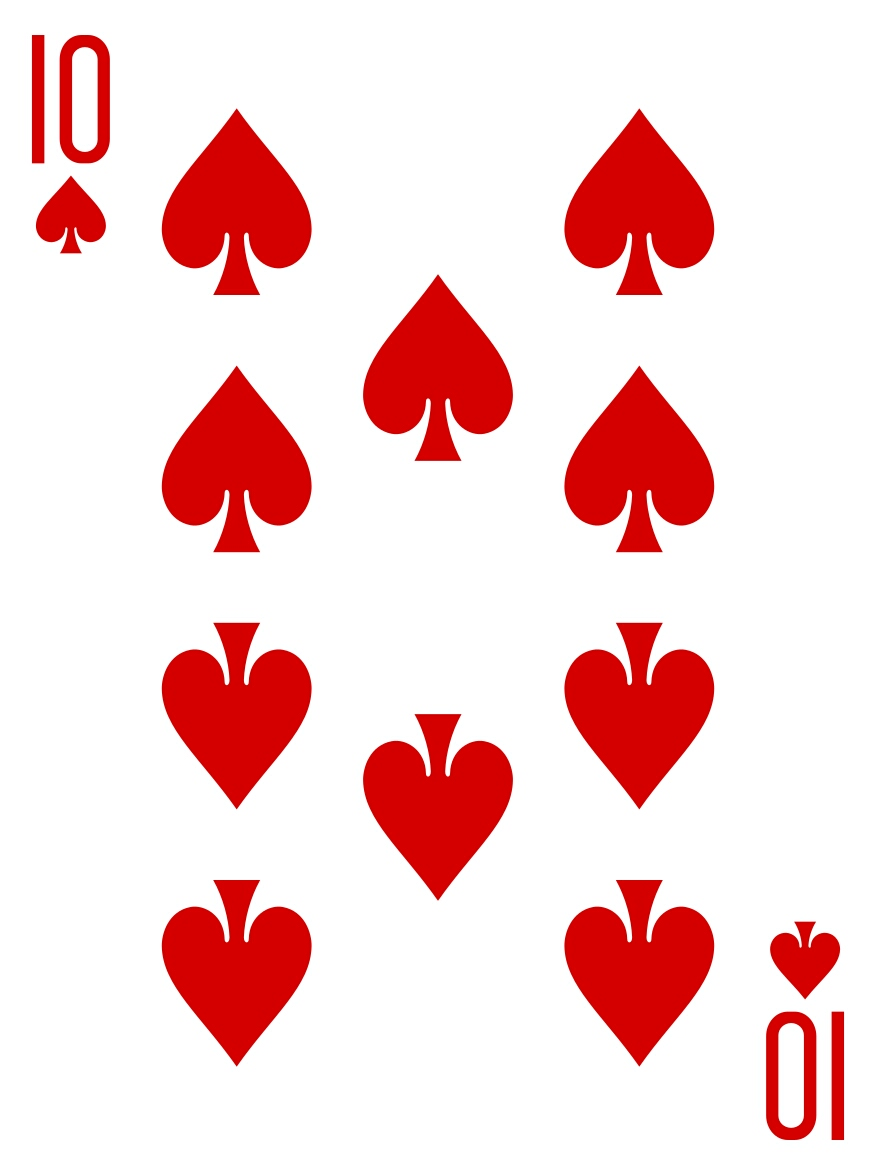
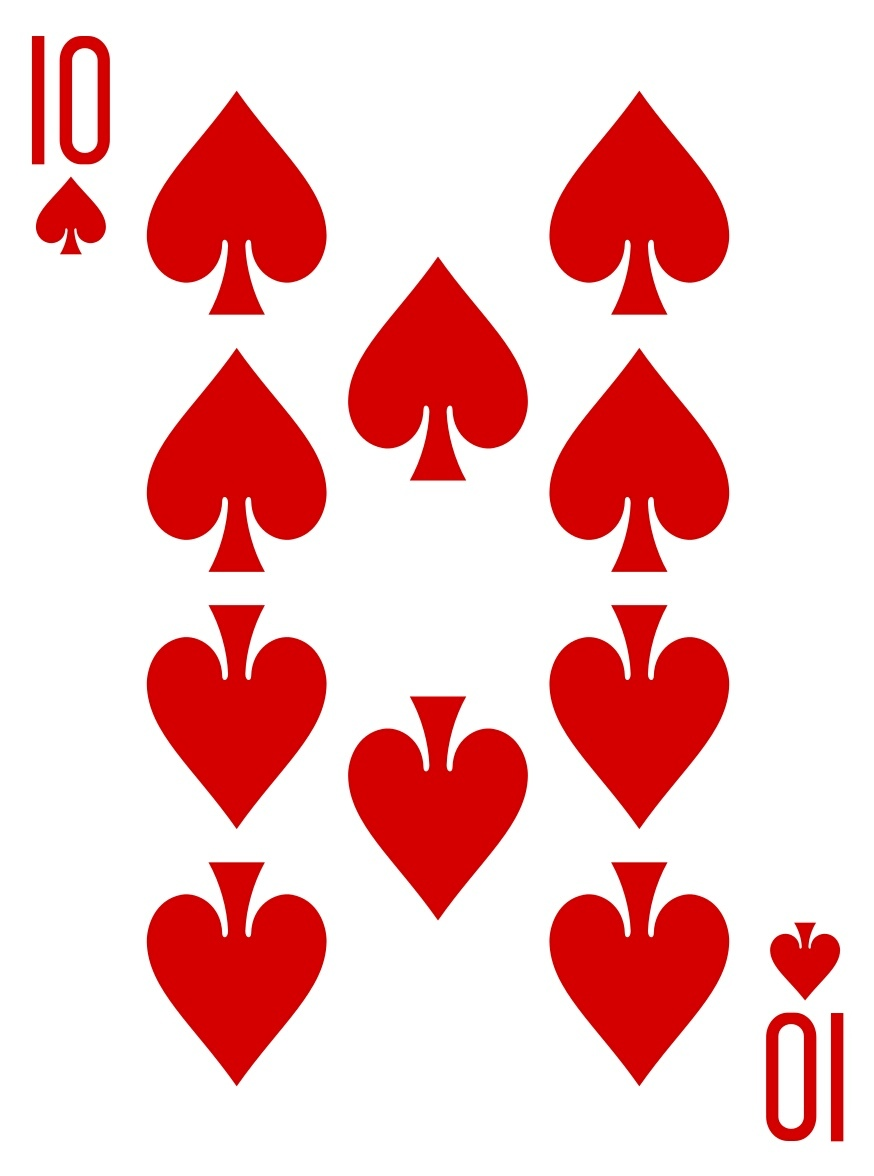
6.52
Interstate60 deck 10_P fix.

diff --git a/src/main/java/com/tonikelope/coronapoker/AboutDialog.java b/src/main/java/com/tonikelope/coronapoker/AboutDialog.java
@@ -16,7 +16,7 @@ import javax.swing.ImageIcon;
  */
 public class AboutDialog extends javax.swing.JDialog {
 
-    public static final String VERSION = "FINAL-6.51";
+    public static final String VERSION = "FINAL-6.52";
     public static final String TITLE = "¿De dónde ha salido esto?";
     public static final int MAX_MOD_LOGO_HEIGHT = 75;
     private volatile String last_mp3_loop = null;